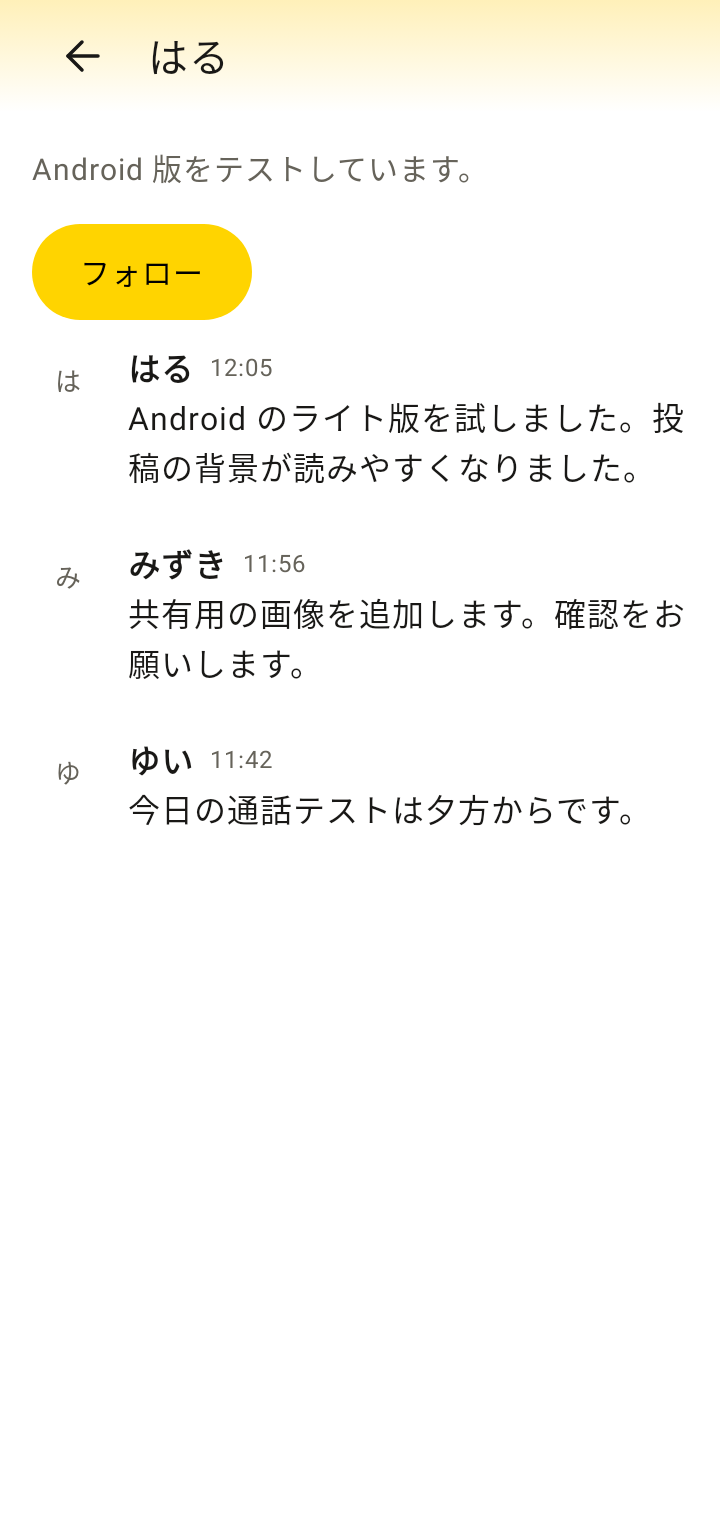
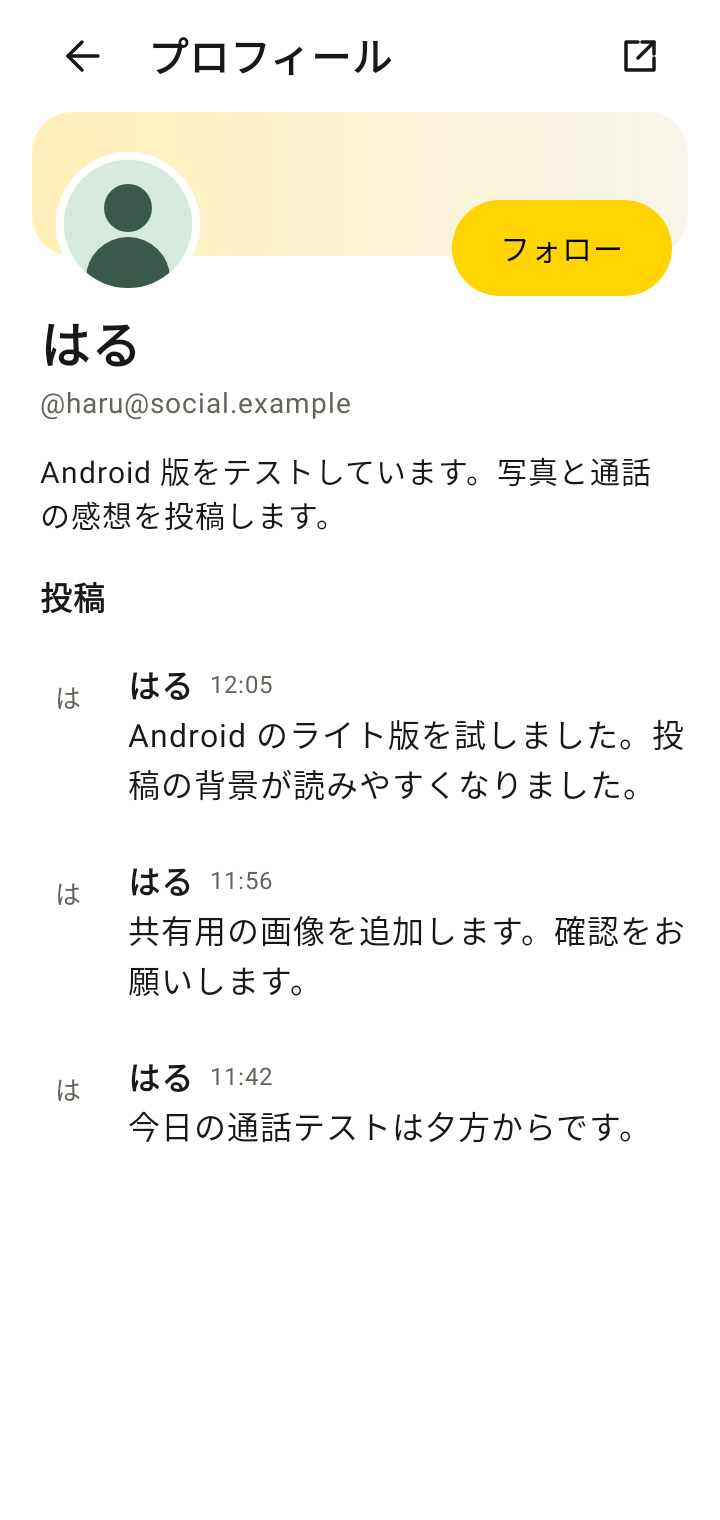
Android のプロフィールにアバターと公開情報をまとめる

diff --git a/frontend-compose/androidApp/src/main/kotlin/zoo/android/ui/ProfileHeader.kt b/frontend-compose/androidApp/src/main/kotlin/zoo/android/ui/ProfileHeader.kt
@@ -1,0 +1,58 @@
+package zoo.android.ui
+
+import androidx.compose.foundation.Image
+import androidx.compose.foundation.background
+import androidx.compose.foundation.layout.*
+import androidx.compose.foundation.shape.CircleShape
+import androidx.compose.foundation.shape.RoundedCornerShape
+import androidx.compose.material3.Text
+import androidx.compose.runtime.Composable
+import androidx.compose.ui.Alignment
+import androidx.compose.ui.Modifier
+import androidx.compose.ui.draw.clip
+import androidx.compose.ui.graphics.Brush
+import androidx.compose.ui.layout.ContentScale
+import androidx.compose.ui.text.style.TextOverflow
+import androidx.compose.ui.unit.dp
+import androidx.compose.ui.unit.sp
+
+@Composable
+internal fun ProfileHeader(profile: AndroidScreen.Profile, colors: AndroidColors, follow: () -> Unit) {
+    Column(Modifier.fillMaxWidth().padding(bottom = 4.dp)) {
+        Box(Modifier.fillMaxWidth().height(92.dp)) {
+            Box(Modifier.fillMaxWidth().height(72.dp).clip(RoundedCornerShape(20.dp))
+                .background(Brush.horizontalGradient(listOf(colors.headerLight, colors.quietSurface))))
+            Box(
+                Modifier.align(Alignment.BottomStart).padding(start = 12.dp).size(72.dp)
+                    .background(colors.background, CircleShape).padding(4.dp)
+                    .clip(CircleShape).background(colors.headerLight),
+                contentAlignment = Alignment.Center,
+            ) {
+                val avatar = profile.avatar
+                if (avatar != null) Image(avatar, null, Modifier.fillMaxSize(), contentScale = ContentScale.Crop)
+                else Text(profile.name.take(1), color = colors.foreground, fontSize = 26.sp,
+                    fontWeight = AndroidWeights.emphasis)
+            }
+            profile.follow?.let { label ->
+                TextAction(label, colors, modifier = Modifier.align(Alignment.BottomEnd).padding(end = 8.dp),
+                    style = if (label == "フォロー") TextActionStyle.Primary else TextActionStyle.Neutral, click = follow)
+            }
+        }
+        Column(Modifier.fillMaxWidth().padding(horizontal = 4.dp).padding(top = 5.dp)) {
+            Text(profile.name, color = colors.foreground, fontSize = 25.sp, lineHeight = 30.sp,
+                fontWeight = AndroidWeights.emphasis, maxLines = 2, overflow = TextOverflow.Ellipsis)
+            profile.handle?.let { handle ->
+                Text(handle, color = colors.secondary, fontSize = 14.sp, maxLines = 2, overflow = TextOverflow.Ellipsis)
+            }
+            if (profile.bio.isNotBlank()) {
+                Text(formatEntry(profile.bio), Modifier.padding(top = 10.dp), color = colors.foreground,
+                    fontSize = 15.sp, lineHeight = 22.sp)
+            }
+            Text("投稿", Modifier.padding(top = 18.dp, bottom = 4.dp), color = colors.foreground,
+                fontWeight = AndroidWeights.emphasis, fontSize = 16.sp)
+            if (profile.posts.isEmpty()) {
+                Text("表示できる投稿はありません", Modifier.padding(vertical = 16.dp), color = colors.secondary, fontSize = 14.sp)
+            }
+        }
+    }
+}

diff --git a/frontend-compose/androidApp/src/main/kotlin/zoo/android/ui/AndroidScreens.kt b/frontend-compose/androidApp/src/main/kotlin/zoo/android/ui/AndroidScreens.kt
@@ -103,7 +103,11 @@ internal sealed interface AndroidScreen {
         val submit: String? = null, val canSubmit: Boolean = false, val encryption: Boolean? = null,
     ) : AndroidScreen
     data class EditEntry(val input: InputState) : AndroidScreen
-    data class Profile(val name: String, val bio: String, val posts: List<TimelineItem>, val follow: String? = null) : AndroidScreen
+    data class Profile(
+        val name: String, val bio: String, val posts: List<TimelineItem>, val follow: String? = null,
+        val handle: String? = null, val avatar: ImageBitmap? = null,
+        val originalAvailable: Boolean = false,
+    ) : AndroidScreen
     data class NewPost(val input: InputState, val recent: List<RecentPhoto>, val showPhotos: Boolean,
         val visibility: String? = null, val attached: List<RecentPhoto> = emptyList(), val federate: Boolean? = null) : AndroidScreen
     data class SignIn(val restoring: Boolean) : AndroidScreen
@@ -296,14 +300,13 @@ private fun RenderAndroidScreen(
                 { dispatch(AndroidUiAction.OpenSetting("encrypted-dm")) },
             )
             is AndroidScreen.Profile -> {
-                PageHeader(screen.name, colors, onBack = back, titleWeight = AndroidWeights.userName)
-                if (screen.bio.isNotBlank()) Text(screen.bio, Modifier.padding(16.dp), color = colors.secondary, fontSize = 15.sp)
-                screen.follow?.let { label ->
-                    Box(Modifier.padding(horizontal = 16.dp)) {
-                        TextAction(label, colors) { dispatch(AndroidUiAction.OpenSetting("profile-follow")) }
-                    }
+                PageHeader("プロフィール", colors, onBack = back, paintBackground = false) {
+                    if (screen.originalAvailable) UiIconButton(UiIcon.External, "公開プロフィールを開く", colors.foreground,
+                        { dispatch(AndroidUiAction.OpenSetting("profile-original")) })
                 }
-                Timeline(screen.posts, colors, Modifier.weight(1f), dispatch, posts = true)
+                Timeline(screen.posts, colors, Modifier.weight(1f), dispatch, posts = true, header = {
+                    ProfileHeader(screen, colors) { dispatch(AndroidUiAction.OpenSetting("profile-follow")) }
+                })
             }
             is AndroidScreen.NewPost -> NewPostPage(screen, colors, dispatch, photo)
             is AndroidScreen.SignIn -> BrandPage(
@@ -450,6 +453,7 @@ private fun Timeline(
     allowThreads: Boolean = false,
     focusMessage: String? = null,
     loadOlder: (() -> Unit)? = null,
+    header: (@Composable () -> Unit)? = null,
 ) {
     val authorSize = if (posts) 16.sp else 14.sp
     val authorWeight = if (posts) AndroidWeights.emphasis else AndroidWeights.userName
@@ -471,6 +475,7 @@ private fun Timeline(
         }
     }
     LazyColumn(modifier, state = scroll, contentPadding = PaddingValues(horizontal = 16.dp)) {
+        if (header != null) item { header() }
         items(entries, key = { it.entryKey }) { entry ->
             Row(
                 Modifier.fillMaxWidth().testTag("timeline-entry-${entry.id}")

diff --git a/frontend-compose/androidApp/src/main/kotlin/zoo/android/ConnectedScreens.kt b/frontend-compose/androidApp/src/main/kotlin/zoo/android/ConnectedScreens.kt
@@ -13,6 +13,7 @@ import androidx.compose.ui.Modifier
 import androidx.compose.ui.graphics.ImageBitmap
 import androidx.compose.ui.layout.ContentScale
 import androidx.compose.ui.unit.dp
+import io.ktor.http.Url
 import kotlinx.coroutines.CancellationException
 import kotlinx.coroutines.delay
 import kotlinx.coroutines.flow.firstOrNull
@@ -175,6 +176,23 @@ internal fun ConnectedScreens(
         EncryptionRoute(session, platform, ::back)
         return
     }
+    val profile = state.profile
+    val remoteProfile = profile.flag("remote")
+    val profileUrl = profile.text("url").takeIf { publicUrl(it) != null }
+    val profileHost = profileUrl?.let { Url(it).host }.orEmpty()
+    val profileAvatarUrl = if (remoteProfile) {
+        profile.nested("avatar").text("image_id").takeIf { it.matches(Regex("[a-f0-9]{64}")) }
+            ?.let { "/api/activitypub/emoji-images/$it" }
+    } else profile.text("avatar_url").takeIf { it.startsWith("https://") && publicUrl(it) != null }
+    val profileAvatar = if (state.overlay == "profile" && profileAvatarUrl != null) {
+        key(profile.text("id"), profileAvatarUrl) {
+            produceState<ImageBitmap?>(null) {
+                value = try { session.imageBitmap(profileAvatarUrl) }
+                catch (cancelled: CancellationException) { throw cancelled }
+                catch (_: Exception) { null }
+            }.value
+        }
+    } else null
     val screen = when {
         call != null -> AndroidScreen.Call(
             caller?.let(::author).orEmpty().ifBlank { call.label },
@@ -183,8 +201,14 @@ internal fun ConnectedScreens(
         )
         state.overlay == "people" -> AndroidScreen.Directory("ユーザーを検索", state.query,
             state.people.map { SelectionItem(it.text("id"), author(it), it.text("user_name"), isUserName = true) })
-        state.overlay == "profile" -> AndroidScreen.Profile(author(state.profile), state.profile.text("summary"),
-            state.profilePosts.map { state.entry(it, usersById, previewService = previewService) }, state.followState)
+        state.overlay == "profile" -> AndroidScreen.Profile(
+            author(profile), profile.text("summary"),
+            state.profilePosts.map { state.entry(it, usersById, previewService = previewService) }, state.followState,
+            handle = profile.text("user_name").takeIf { it.isNotBlank() }?.let { name ->
+                if (remoteProfile && profileHost.isNotBlank()) "@$name@$profileHost" else "@$name"
+            },
+            avatar = profileAvatar, originalAvailable = profileUrl != null,
+        )
         state.overlay == "bubble-participants" -> AndroidScreen.Directory("参加者", state.query,
             bubbleParticipants.filter { it.title.contains(state.query, true) })
         state.overlay == "browse" -> AndroidScreen.Directory("チャンネルを探す", state.query,

diff --git a/frontend-compose/androidApp/src/main/kotlin/zoo/android/ConnectedScreenState.kt b/frontend-compose/androidApp/src/main/kotlin/zoo/android/ConnectedScreenState.kt
@@ -218,16 +218,18 @@ internal class ConnectedScreenState(
         val id = person.text("id")
         val remote = person.flag("remote")
         profilePosts = app.api.request("/api/home?timeline=social&author=${id.encodeURLParameter()}&limit=40").rows()
-        if (!remote) {
-            val publicProfile = try {
-                app.api.request("/api/activitypub/users/${id.encodeURLParameter()}/profile").jsonObject.nested("account")
-            } catch (cancelled: CancellationException) { throw cancelled }
-            catch (_: Exception) { obj() }
-            if (publicProfile.isNotEmpty()) profile = publicProfile
-        }
-        followState = if (profile.text("id") == app.config.userId) null else {
-            if (remote) updateFollowState(id) else null
-        }
+        val account = try {
+            app.api.request("/api/activitypub/accounts?actor=${id.encodeURLParameter()}").jsonObject
+        } catch (cancelled: CancellationException) { throw cancelled }
+        catch (_: Exception) { obj() }
+        if (account.isNotEmpty()) profile = kotlinx.serialization.json.JsonObject(person + account)
+        followState = if (!remote || id == app.config.userId) null else if (account.isNotEmpty()) {
+            when {
+                !account.present("following") -> "フォロー"
+                account.flag("following") -> "フォローを解除"
+                else -> "申請を取り消す"
+            }
+        } else updateFollowState(id)
         overlay = "profile"
     }
 
@@ -449,6 +451,10 @@ internal class ConnectedScreenState(
             }
             is AndroidUiAction.OpenSetting -> when {
                 action.id == "toggle-federation" -> if (federationAvailable) federatePost = !federatePost else Unit
+                action.id == "profile-original" -> {
+                    val url = profile.text("url")
+                    if (publicUrl(url) != null) platform.action("open:$url")
+                }
                 action.id == "profile-follow" && followState != null -> request {
                     val actor = profile.text("actor_id").ifBlank { profile.text("id") }
                     app.api.request("/api/activitypub/follows", if (followState == "フォロー") "POST" else "DELETE",

diff --git a/frontend-compose/ui-preview/src/test/kotlin/zoo/android/ui/AndroidSamplesTest.kt b/frontend-compose/ui-preview/src/test/kotlin/zoo/android/ui/AndroidSamplesTest.kt
@@ -104,7 +104,8 @@ class AndroidSamplesTest {
             )),
             "post" to AndroidScreen.Post(posts.first(), posts.drop(1), InputState()),
             "post-compose" to AndroidScreen.NewPost(InputState("新しい画面を共有します。"), emptyList(), true),
-            "profile" to AndroidScreen.Profile("はる", "Android 版をテストしています。", posts, "フォロー"),
+            "profile" to AndroidScreen.Profile("はる", "Android 版をテストしています。写真と通話の感想を投稿します。",
+                posts.map { it.copy(author = "はる") }, "フォロー", handle = "@haru@social.example", avatar = avatar, originalAvailable = true),
             "directory" to AndroidScreen.Directory("チャンネルを探す", "", listOf(SelectionItem("dev", "開発"))),
             "channel-edit" to AndroidScreen.EditChannel("チャンネルを作成", "開発", "", "作成", true,
                 privateChannel = true, sensitive = false, encrypted = true),
@@ -154,6 +155,11 @@ class AndroidSamplesTest {
                     check(root.right - bounds.right == 4.dp && root.bottom - bounds.bottom == 4.dp) {
                         "Expected 4dp between send action and screen edges: $bounds / $root"
                     }
+                }
+                if (name == "profile") {
+                    ui.onNodeWithText("@haru@social.example").assertIsDisplayed()
+                    ui.onNodeWithContentDescription("公開プロフィールを開く").assertHasClickAction()
+                    ui.onNodeWithText("フォロー").assertHasClickAction()
                 }
                 if (name == "post-compose") {
                     val toolbar = ui.onNodeWithTag("post-actions").getUnclippedBoundsInRoot()

diff --git a/frontend-compose/androidApp/src/main/kotlin/zoo/android/ui/UiIcon.kt b/frontend-compose/androidApp/src/main/kotlin/zoo/android/ui/UiIcon.kt
@@ -33,7 +33,7 @@ internal object AndroidControlSize {
 }
 
 internal enum class UiIcon {
-    Back, Next, Home, Channels, Bell, Bubble, Settings, Send, Attach, Format, Emoji, Create, Document, Copy, Phone, PhoneOff, Delete, Repost, Search,
+    Back, Next, Home, Channels, Bell, Bubble, Settings, Send, Attach, Format, Emoji, Create, Document, Copy, Phone, PhoneOff, Delete, Repost, Search, External,
 }
 
 @Composable
@@ -100,6 +100,11 @@ internal fun UiGlyph(icon: UiIcon, color: Color) {
                 lines(14 to 3, 14 to 8, 19 to 8)
                 lines(9 to 12, 16 to 12)
                 lines(9 to 16, 16 to 16)
+            }
+            UiIcon.External -> {
+                lines(11 to 5, 5 to 5, 5 to 19, 19 to 19, 19 to 13)
+                lines(13 to 5, 19 to 5, 19 to 11)
+                lines(19 to 5, 11 to 13)
             }
             UiIcon.Search -> {
                 drawCircle(color, radius = size.width * .24f, center = point(10f, 10f), style = Stroke(width))
